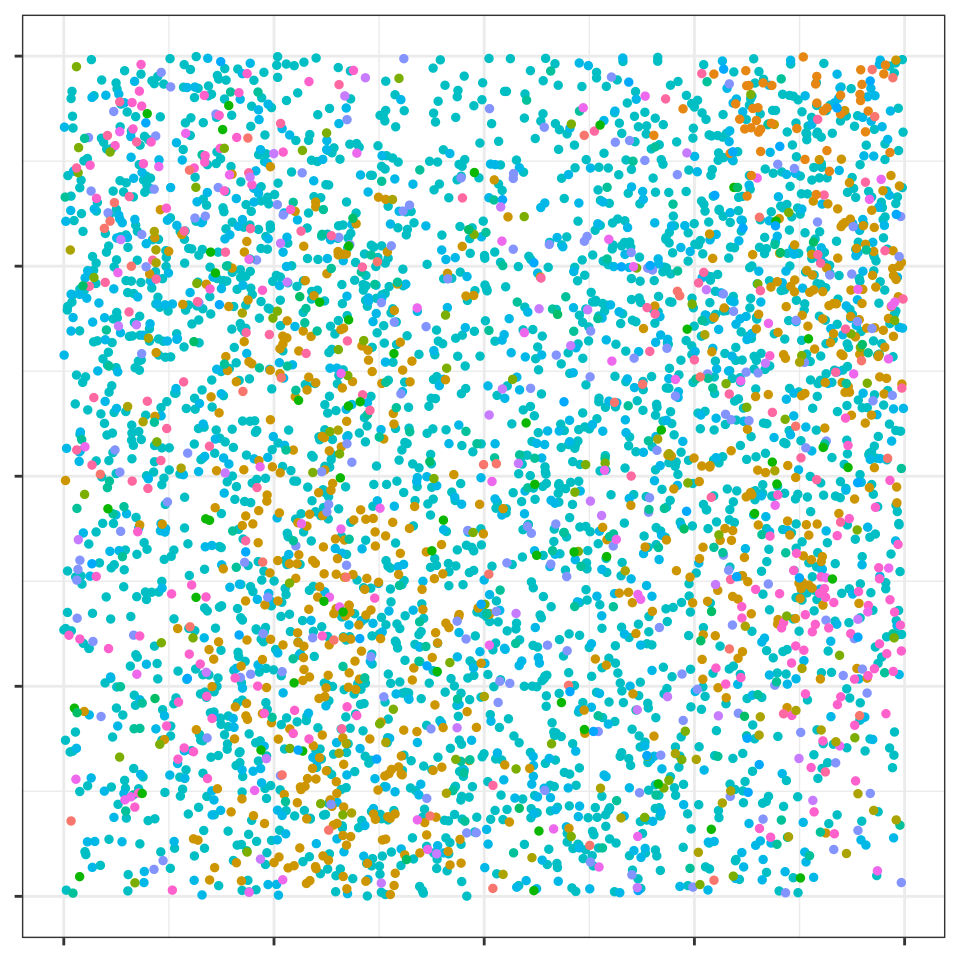
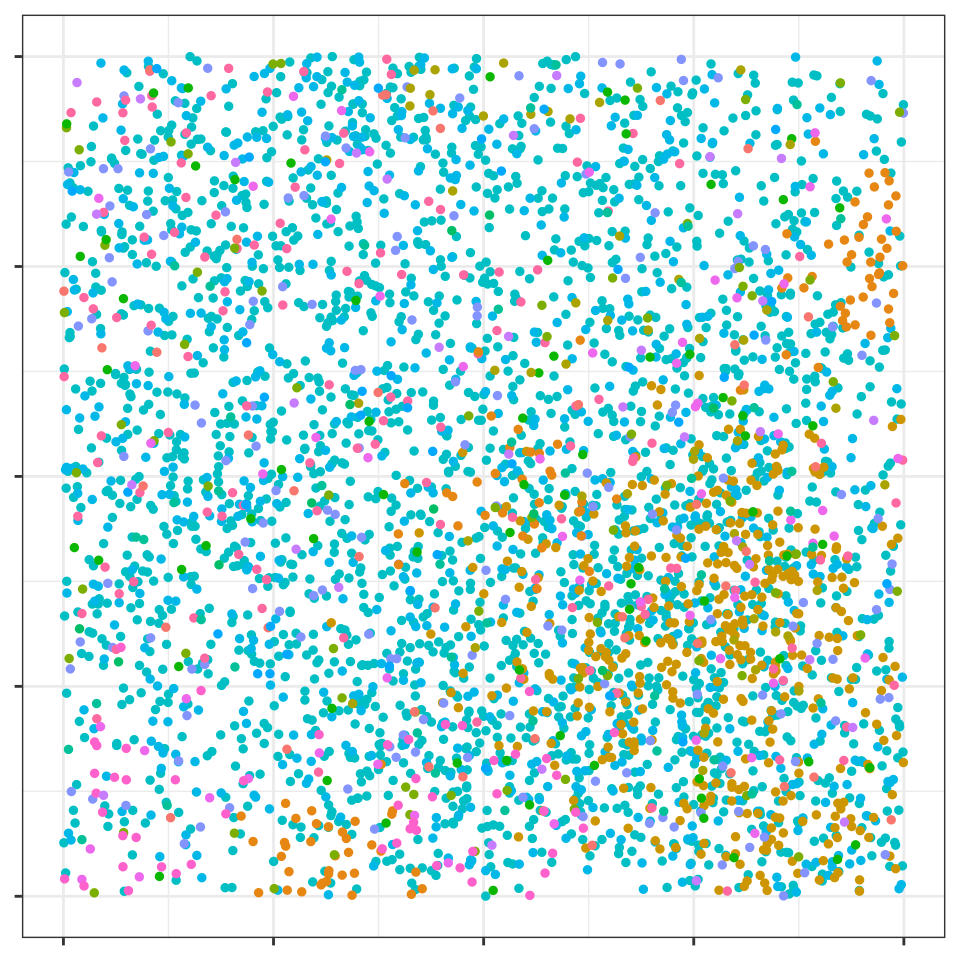
Deploying to gh-pages from @ jrvanderdoes/funkycells@2de0d888946f69f65b57e79516aefec2434a9aa7 🚀

diff --git a/articles/TNBC.html b/articles/TNBC.html
@@ -140,7 +140,7 @@ interactions, if present, and <span class="math inline">\(2\)</span> for
 each class that are indistinguishable to add some noise to the data.</p>
 <p>The non-interactive data is simulated as follows.</p>
 <div class="sourceCode" id="cb5"><pre class="downlit sourceCode r">
-<code class="sourceCode R"><span><span class="fu"><a href="https://rdrr.io/r/base/Random.html" class="external-link">set.seed</a></span><span class="op">(</span><span class="fl">12345</span><span class="op">)</span></span>
+<code class="sourceCode R"><span><span class="fu"><a href="https://rdrr.io/r/base/Random.html" class="external-link">set.seed</a></span><span class="op">(</span><span class="fl">123</span><span class="op">)</span></span>
 <span><span class="va">dat0</span> <span class="op">&lt;-</span> <span class="fu"><a href="../reference/simulatePP.html">simulatePP</a></span><span class="op">(</span></span>
 <span>  cellVarData <span class="op">=</span></span>
 <span>    <span class="fu"><a href="https://rdrr.io/r/base/data.frame.html" class="external-link">data.frame</a></span><span class="op">(</span></span>
@@ -282,7 +282,7 @@ effect).</p>
 <span><span class="op">)</span></span></code></pre></div>
 <p>We analyze the data.</p>
 <div class="sourceCode" id="cb9"><pre class="downlit sourceCode r">
-<code class="sourceCode R"><span><span class="fu"><a href="https://rdrr.io/r/base/Random.html" class="external-link">set.seed</a></span><span class="op">(</span><span class="fl">12345</span><span class="op">)</span></span>
+<code class="sourceCode R"><span><span class="fu"><a href="https://rdrr.io/r/base/Random.html" class="external-link">set.seed</a></span><span class="op">(</span><span class="fl">123</span><span class="op">)</span></span>
 <span><span class="va">rfcv</span> <span class="op">&lt;-</span> <span class="fu"><a href="../reference/funkyModel.html">funkyModel</a></span><span class="op">(</span></span>
 <span>  data <span class="op">=</span> <span class="va">pcaMeta</span>,</span>
 <span>  outcome <span class="op">=</span> <span class="st">"Stage"</span>,</span>
@@ -295,10 +295,10 @@ this vignette.</p>
 <div class="sourceCode" id="cb10"><pre class="downlit sourceCode r">
 <code class="sourceCode R"><span><span class="va">rfcv</span><span class="op">$</span><span class="va">viPlot</span></span></code></pre></div>
 <div class="sourceCode" id="cb11"><pre class="downlit sourceCode r">
-<code class="sourceCode R"><span><span class="va">rfcv</span><span class="op">$</span><span class="va">subset_viplot</span></span></code></pre></div>
+<code class="sourceCode R"><span><span class="va">rfcv</span><span class="op">$</span><span class="va">subset_viPlot</span></span></code></pre></div>
 <p>Now we consider the simulated model with effects.</p>
 <div class="sourceCode" id="cb12"><pre class="downlit sourceCode r">
-<code class="sourceCode R"><span><span class="fu"><a href="https://rdrr.io/r/base/Random.html" class="external-link">set.seed</a></span><span class="op">(</span><span class="fl">12345</span><span class="op">)</span></span>
+<code class="sourceCode R"><span><span class="fu"><a href="https://rdrr.io/r/base/Random.html" class="external-link">set.seed</a></span><span class="op">(</span><span class="fl">1234567</span><span class="op">)</span></span>
 <span><span class="va">dat0</span> <span class="op">&lt;-</span> <span class="fu"><a href="../reference/simulatePP.html">simulatePP</a></span><span class="op">(</span></span>
 <span>  cellVarData <span class="op">=</span></span>
 <span>    <span class="fu"><a href="https://rdrr.io/r/base/data.frame.html" class="external-link">data.frame</a></span><span class="op">(</span></span>
@@ -397,7 +397,6 @@ this vignette.</p>
 <span>  <span class="fu"><a href="https://rdrr.io/r/base/data.frame.html" class="external-link">data.frame</a></span><span class="op">(</span><span class="st">"X1"</span> <span class="op">=</span> <span class="va">cells</span>, <span class="st">"X2"</span> <span class="op">=</span> <span class="va">cells</span><span class="op">)</span></span>
 <span><span class="op">)</span></span>
 <span></span>
-<span><span class="fu"><a href="https://rdrr.io/r/base/Random.html" class="external-link">set.seed</a></span><span class="op">(</span><span class="fl">12345</span><span class="op">)</span></span>
 <span><span class="va">pcaData</span> <span class="op">&lt;-</span> <span class="fu"><a href="../reference/getKsPCAData.html">getKsPCAData</a></span><span class="op">(</span></span>
 <span>  data <span class="op">=</span> <span class="va">dat</span>, repeatedUniqueId <span class="op">=</span> <span class="st">"Image"</span>,</span>
 <span>  agents_df <span class="op">=</span> <span class="va">cells_interactions</span>,</span>
@@ -413,7 +412,6 @@ this vignette.</p>
 <span>  <span class="op">)</span></span>
 <span><span class="op">)</span></span>
 <span></span>
-<span><span class="fu"><a href="https://rdrr.io/r/base/Random.html" class="external-link">set.seed</a></span><span class="op">(</span><span class="fl">12345</span><span class="op">)</span></span>
 <span><span class="va">rfcv</span> <span class="op">&lt;-</span> <span class="fu"><a href="../reference/funkyModel.html">funkyModel</a></span><span class="op">(</span></span>
 <span>  data <span class="op">=</span> <span class="va">pcaMeta</span>,</span>
 <span>  outcome <span class="op">=</span> <span class="st">"Stage"</span>,</span>
